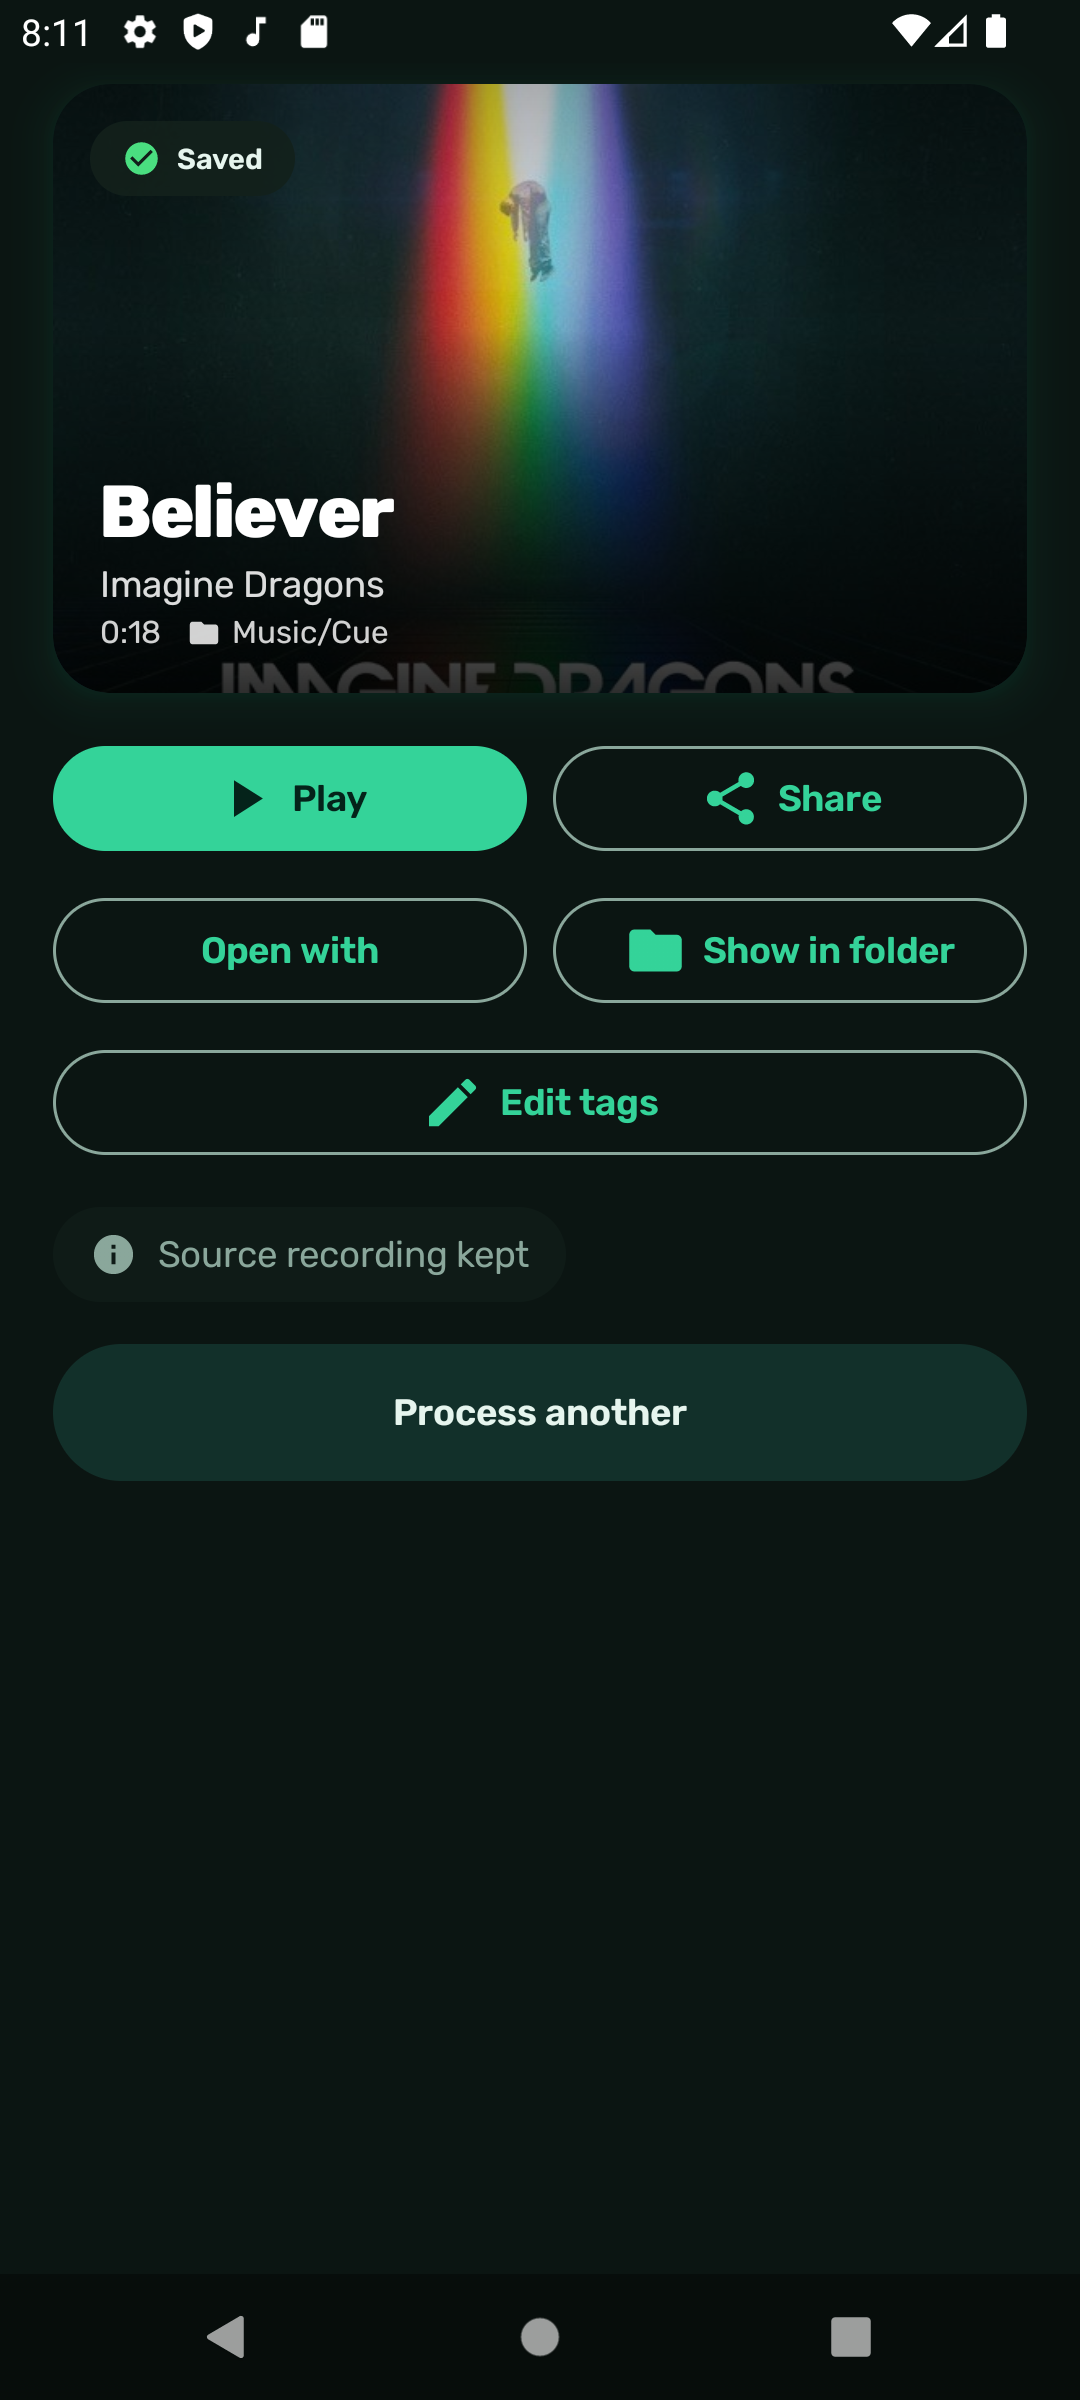
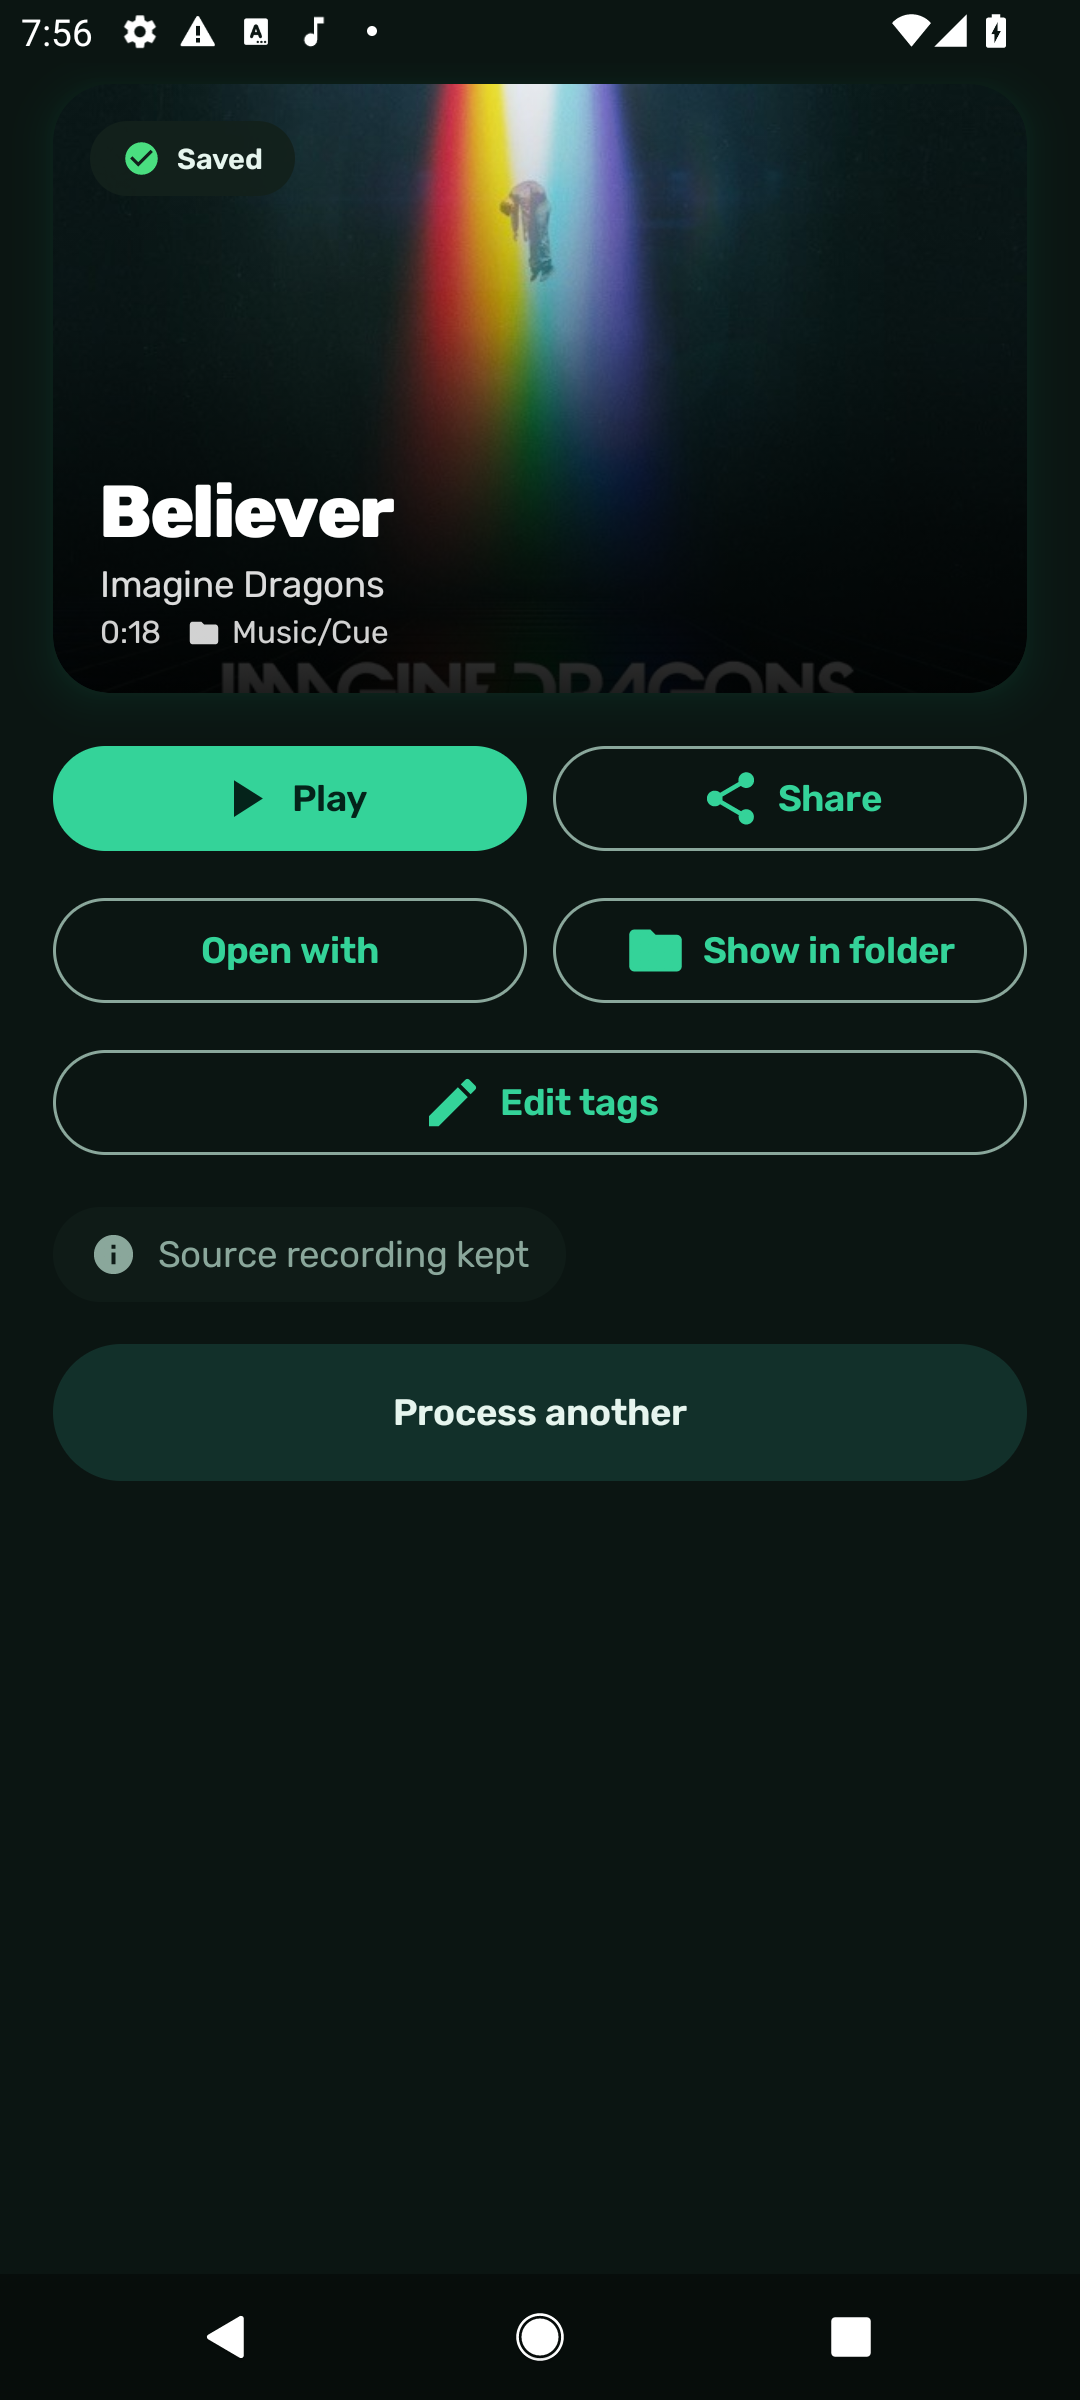
Fix hero scrim, narrow-screen tabs and Rubik attribution
Saved-song hero: replace the scrim that dipped to transparent with a monotonic bottom-heavy gradient so the title and metadata stay legible over bright artwork, and grow the hero for large accessibility fonts.

Home: let the tab label ellipsize instead of squeezing the count badge, tighten pill padding so Recordings fits at 360 dp, raise the header subtitle to onSurface over the wash, drop Latin tracking for RTL day headers and shorten the tagline.

Saved actions: trim content padding so Show in folder stays on one line at 360 dp. Remove the unused home_tab_with_count string and add the Rubik OFL 1.1 notice and licence text.

diff --git a/app/src/main/java/io/github/rpn17m2g/cue/ui/screens/ResultScreen.kt b/app/src/main/java/io/github/rpn17m2g/cue/ui/screens/ResultScreen.kt
@@ -14,12 +14,14 @@ import androidx.compose.foundation.background
 import androidx.compose.foundation.layout.Arrangement
 import androidx.compose.foundation.layout.Box
 import androidx.compose.foundation.layout.Column
+import androidx.compose.foundation.layout.PaddingValues
 import androidx.compose.foundation.layout.Row
 import androidx.compose.foundation.layout.Spacer
 import androidx.compose.foundation.layout.aspectRatio
 import androidx.compose.foundation.layout.fillMaxSize
 import androidx.compose.foundation.layout.fillMaxWidth
 import androidx.compose.foundation.layout.height
+import androidx.compose.foundation.layout.heightIn
 import androidx.compose.foundation.layout.padding
 import androidx.compose.foundation.layout.size
 import androidx.compose.foundation.layout.width
@@ -61,6 +63,7 @@ import androidx.compose.ui.graphics.Brush
 import androidx.compose.ui.graphics.asImageBitmap
 import androidx.compose.ui.layout.ContentScale
 import androidx.compose.ui.platform.LocalContext
+import androidx.compose.ui.platform.LocalDensity
 import androidx.compose.ui.res.stringResource
 import androidx.compose.ui.text.style.TextOverflow
 import androidx.compose.ui.unit.dp
@@ -203,9 +206,13 @@ private fun SavedHero(song: SavedSong) {
         song.artwork?.let { decodeArtwork(it.bytes, maxWidth = 512) }
     }
     val title = song.title.ifBlank { song.displayName.substringBeforeLast('.') }
+    val fontScale = LocalDensity.current.fontScale
     Box(
         modifier = Modifier
             .fillMaxWidth()
+            // Grow past the artwork ratio when large accessibility fonts need
+            // room for a two-line title and the metadata row.
+            .heightIn(min = 200.dp * fontScale.coerceIn(1f, 1.6f))
             .aspectRatio(1.6f)
             .shadow(
                 elevation = tokens.shadowElevation * 1.5f,
@@ -242,10 +249,13 @@ private fun SavedHero(song: SavedSong) {
             modifier = Modifier
                 .fillMaxSize()
                 .background(
+                    // Monotonic and bottom-heavy: the title/artist sit in the
+                    // lower half, so the scrim must never dip back to clear.
                     Brush.verticalGradient(
-                        0f to MaterialTheme.colorScheme.scrim.copy(alpha = 0.30f),
-                        0.4f to MaterialTheme.colorScheme.scrim.copy(alpha = 0f),
-                        1f to MaterialTheme.colorScheme.scrim.copy(alpha = 0.82f),
+                        0f to MaterialTheme.colorScheme.scrim.copy(alpha = 0.05f),
+                        0.4f to MaterialTheme.colorScheme.scrim.copy(alpha = 0.20f),
+                        0.72f to MaterialTheme.colorScheme.scrim.copy(alpha = 0.62f),
+                        1f to MaterialTheme.colorScheme.scrim.copy(alpha = 0.88f),
                     ),
                 ),
         )
@@ -346,27 +356,33 @@ private fun SavedActions(
 ) {
     val context = LocalContext.current
     val tokens = LocalCueTokens.current
+    // At 360 dp the paired buttons only leave ~75 dp for a label with the
+    // default 24 dp content padding, which wraps "Show in folder"; trim the
+    // padding so every action stays on one line.
+    val compactPadding = PaddingValues(horizontal = 12.dp)
     Column(verticalArrangement = Arrangement.spacedBy(10.dp)) {
         Row(horizontalArrangement = Arrangement.spacedBy(10.dp)) {
             Button(
                 onClick = { play(context, song) },
                 shape = tokens.buttonShape,
+                contentPadding = compactPadding,
                 modifier = Modifier.weight(1f),
             ) {
                 Icon(Icons.Default.PlayArrow, contentDescription = null)
                 Spacer(Modifier.width(6.dp))
-                Text(stringResource(R.string.result_play))
+                Text(stringResource(R.string.result_play), maxLines = 1)
             }
             OutlinedButton(
                 onClick = {
                     share(context, song, context.getString(R.string.result_share_chooser))
                 },
                 shape = tokens.buttonShape,
+                contentPadding = compactPadding,
                 modifier = Modifier.weight(1f),
             ) {
                 Icon(Icons.Default.Share, contentDescription = null)
                 Spacer(Modifier.width(6.dp))
-                Text(stringResource(R.string.result_share))
+                Text(stringResource(R.string.result_share), maxLines = 1)
             }
         }
         Row(horizontalArrangement = Arrangement.spacedBy(10.dp)) {
@@ -375,19 +391,21 @@ private fun SavedActions(
                     openWith(context, song, context.getString(R.string.result_open_with))
                 },
                 shape = tokens.buttonShape,
+                contentPadding = compactPadding,
                 modifier = Modifier.weight(1f),
             ) {
-                Text(stringResource(R.string.result_open_with))
+                Text(stringResource(R.string.result_open_with), maxLines = 1)
             }
             if (song.relativePath.isNotBlank()) {
                 OutlinedButton(
                     onClick = { showInFolder(context, song) },
                     shape = tokens.buttonShape,
+                    contentPadding = compactPadding,
                     modifier = Modifier.weight(1f),
                 ) {
                     Icon(Icons.Default.Folder, contentDescription = null)
                     Spacer(Modifier.width(6.dp))
-                    Text(stringResource(R.string.result_show_folder))
+                    Text(stringResource(R.string.result_show_folder), maxLines = 1)
                 }
             }
         }

diff --git a/app/src/main/java/io/github/rpn17m2g/cue/ui/screens/HomeScreen.kt b/app/src/main/java/io/github/rpn17m2g/cue/ui/screens/HomeScreen.kt
@@ -85,11 +85,13 @@ import androidx.compose.ui.graphics.asImageBitmap
 import androidx.compose.ui.graphics.luminance
 import androidx.compose.ui.layout.ContentScale
 import androidx.compose.ui.platform.LocalContext
+import androidx.compose.ui.platform.LocalLayoutDirection
 import androidx.compose.ui.res.stringResource
 import androidx.compose.ui.semantics.Role
 import androidx.compose.ui.text.font.FontWeight
 import androidx.compose.ui.text.style.TextAlign
 import androidx.compose.ui.text.style.TextOverflow
+import androidx.compose.ui.unit.LayoutDirection
 import androidx.compose.ui.unit.dp
 import androidx.compose.ui.unit.em
 import androidx.core.app.ActivityCompat
@@ -322,7 +324,10 @@ private fun HomeHeader(
             Text(
                 text = stringResource(R.string.home_subtitle),
                 style = MaterialTheme.typography.bodySmall,
-                color = MaterialTheme.colorScheme.onSurfaceVariant,
+                // onSurface rather than onSurfaceVariant: the header wash
+                // lightens the background enough that the muted tone drops
+                // below 4.5:1 on the light palettes.
+                color = MaterialTheme.colorScheme.onSurface.copy(alpha = 0.86f),
                 maxLines = 1,
                 overflow = TextOverflow.Ellipsis,
             )
@@ -415,7 +420,7 @@ private fun TabBar(
     ) {
         Row(
             modifier = Modifier
-                .padding(4.dp)
+                .padding(2.dp)
                 .selectableGroup(),
         ) {
             LibraryTab.entries.forEach { item ->
@@ -480,7 +485,7 @@ private fun TabPill(
         Row(
             modifier = Modifier
                 .fillMaxWidth()
-                .padding(vertical = 8.dp, horizontal = 6.dp),
+                .padding(vertical = 8.dp, horizontal = 4.dp),
             horizontalArrangement = Arrangement.Center,
             verticalAlignment = Alignment.CenterVertically,
         ) {
@@ -489,8 +494,13 @@ private fun TabPill(
                 style = MaterialTheme.typography.labelMedium,
                 maxLines = 1,
                 overflow = TextOverflow.Ellipsis,
+                textAlign = TextAlign.Center,
+                // Three equal pills at 360 dp leave "Recordings" ~60 dp once
+                // the count badge is measured; let the label ellipsize instead
+                // of pushing the badge out of the pill.
+                modifier = Modifier.weight(1f, fill = false),
             )
-            Spacer(Modifier.width(6.dp))
+            Spacer(Modifier.width(4.dp))
             CountBadge(count = count, selected = selected)
         }
     }
@@ -510,7 +520,7 @@ private fun CountBadge(count: Int, selected: Boolean) {
         Text(
             text = count.toString(),
             style = MaterialTheme.typography.labelSmall,
-            modifier = Modifier.padding(horizontal = 6.dp, vertical = 1.dp),
+            modifier = Modifier.padding(horizontal = 4.dp, vertical = 1.dp),
         )
     }
 }
@@ -642,11 +652,14 @@ private fun DayHeader(bucket: DayBucket, modifier: Modifier = Modifier) {
                 .background(MaterialTheme.colorScheme.primary),
         )
         Spacer(Modifier.width(8.dp))
+        // Latin small-caps tracking reads well in English but separates Hebrew
+        // letters awkwardly, so drop it for RTL locales.
+        val rtl = LocalLayoutDirection.current == LayoutDirection.Rtl
         Text(
             text = stringResource(bucket.labelRes()).uppercase(),
             style = MaterialTheme.typography.labelSmall.copy(
                 fontWeight = FontWeight.SemiBold,
-                letterSpacing = 0.14.em,
+                letterSpacing = if (rtl) 0.em else 0.14.em,
             ),
             color = MaterialTheme.colorScheme.onSurfaceVariant,
         )
